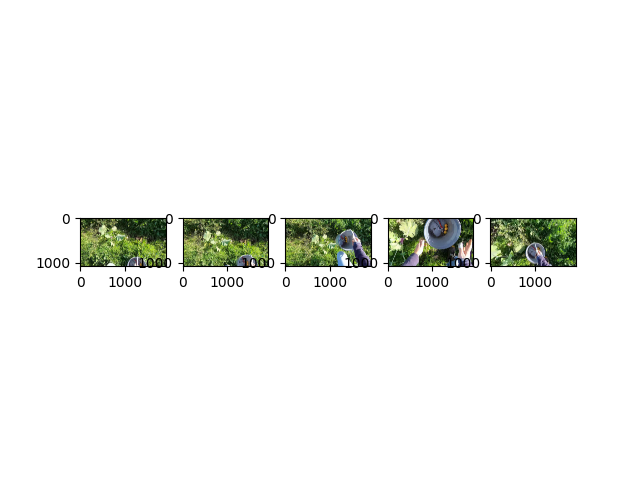
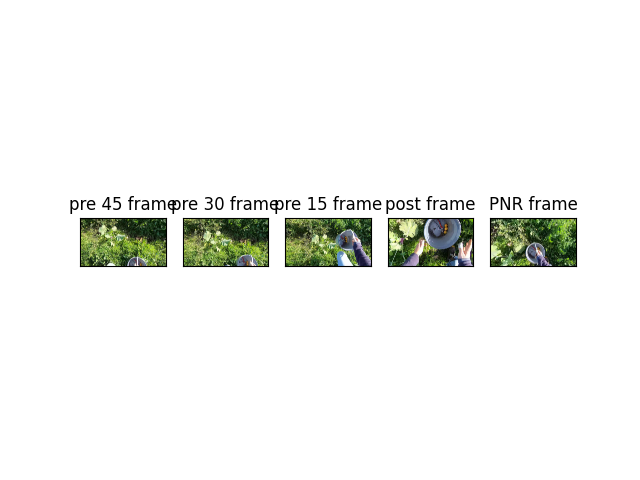
Cleaned up the PNR localization plot

diff --git a/data_viz.py b/data_viz.py
@@ -62,9 +62,23 @@ pnr_img = videodata[pnr_frame]
 
 fig, (ax1, ax2, ax3, ax4, ax5) = plt.subplots(1, 5)
 ax1.imshow(pre_45_img)
+ax1.axes.xaxis.set_visible(False)
+ax1.axes.yaxis.set_visible(False)
+ax1.set_title("pre 45 frame")
 ax2.imshow(pre_30_img)
+ax2.axes.xaxis.set_visible(False)
+ax2.axes.yaxis.set_visible(False)
+ax2.set_title("pre 30 frame")
 ax3.imshow(pre_15_img)
+ax3.axes.xaxis.set_visible(False)
+ax3.axes.yaxis.set_visible(False)
+ax3.set_title("pre 15 frame")
 ax4.imshow(post_img)
+ax4.axes.xaxis.set_visible(False)
+ax4.axes.yaxis.set_visible(False)
+ax4.set_title("post frame")
 ax5.imshow(pnr_img)
-
+ax5.axes.xaxis.set_visible(False)
+ax5.axes.yaxis.set_visible(False)
+ax5.set_title("PNR frame")
 plt.savefig("pnr_loc")
